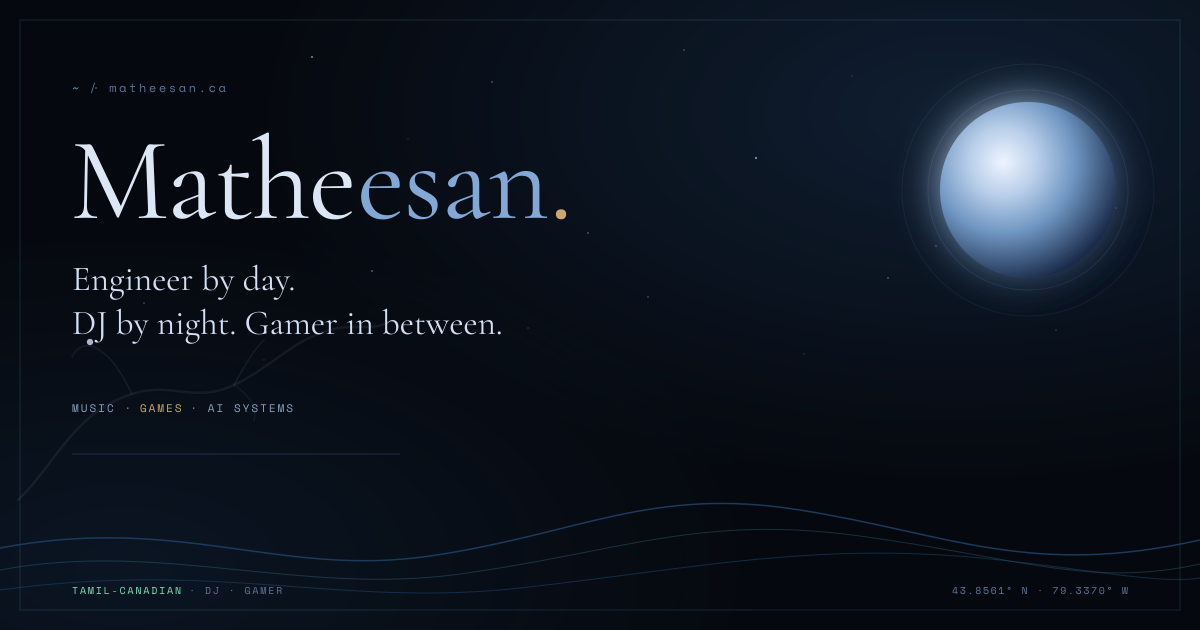
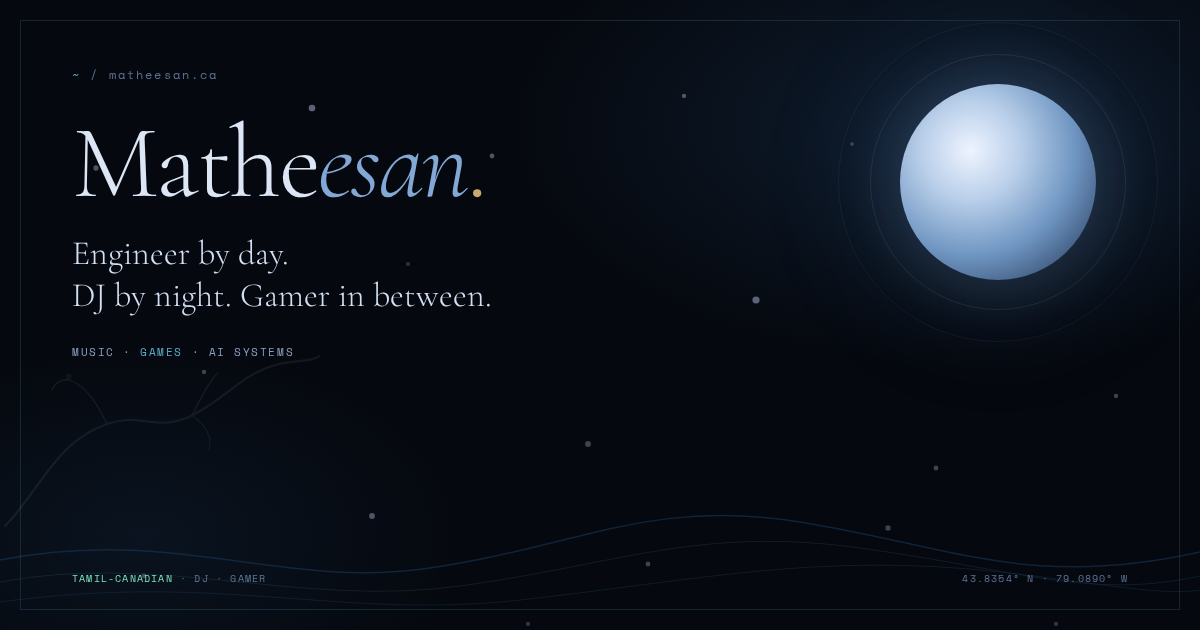
Update home base to Pickering
Reflect Scarborough > Markham > Pickering across the hero, about, terminal, music, resume, metadata and OG image; align coordinates to Pickering.

diff --git a/src/data/profile.ts b/src/data/profile.ts
@@ -6,11 +6,11 @@ export const site = {
   domain: 'https://matheesan.ca',
   role: 'Senior Software Engineer',
   personalRole: 'Engineer · DJ · Gamer',
-  location: 'Markham, Ontario',
-  coords: '43.8561° N · 79.3370° W',
+  location: 'Pickering, Ontario',
+  coords: '43.8354° N · 79.0890° W',
   positioning: 'Engineer by day. DJ by night. Gamer in between.',
   intro:
-    'Tamil-Canadian, born in Toronto, raised in Markham. I build marketplace platforms at WayTrade, mix music after hours, and spend the rest of my time in Elden Ring, Wukong, Mario Kart, Valorant and Overwatch. This is the whole map.',
+    'Tamil-Canadian. Grew up in Scarborough, raised in Markham, now in Pickering. I build marketplace platforms at WayTrade, mix music after hours, and spend the rest of my time in Elden Ring, Wukong, Mario Kart, Valorant and Overwatch. This is the whole map.',
   status: 'Senior Software Engineer at WayTrade',
   personalStatus: 'currently: marketplace · a new mix · Wukong',
   socials: {
@@ -28,7 +28,7 @@ export const now = [
   { value: 'basshall', label: 'listening', note: 'dancehall · South Indian · R&B' },
   { value: 'Wukong', label: 'playing', note: 'Elden Ring on deck' },
   { value: 'decks', label: 'mixing', note: 'a set I’ll never finish' },
-  { value: 'Markham', label: 'based', note: '43.8561° N · 79.3370° W' },
+  { value: 'Pickering', label: 'based', note: '43.8354° N · 79.0890° W' },
 ];
 
 export type CrateItem = {

diff --git a/scripts/og.html b/scripts/og.html
@@ -120,7 +120,7 @@
 
   <div class="bottom">
     <span><b>TAMIL-CANADIAN</b> · DJ · GAMER</span>
-    <span>43.8561° N · 79.3370° W</span>
+    <span>43.8354° N · 79.0890° W</span>
   </div>
 </body>
 </html>
